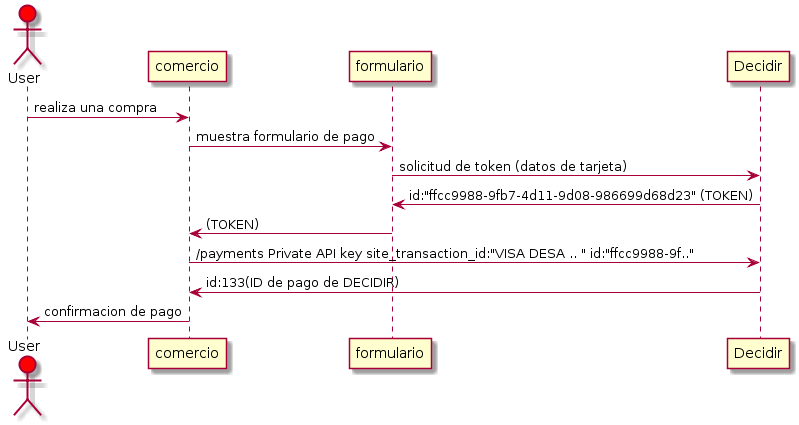
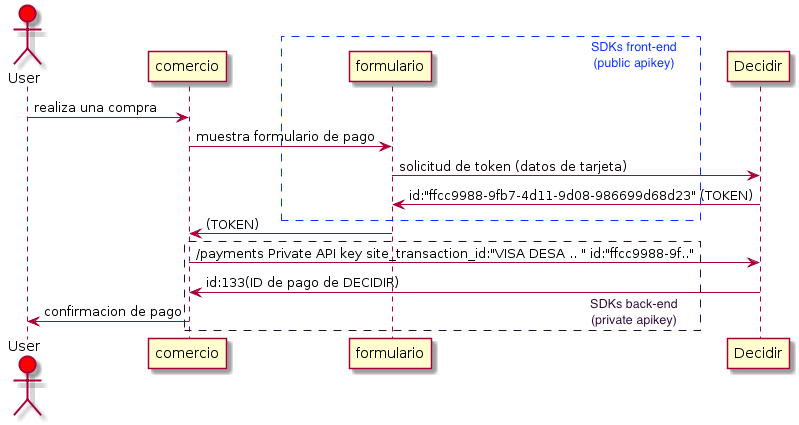
Updated Readme

Changed region(s): [[0.7209, 0.0918, 0.8411, 0.1835], [0.7209, 0.7035, 0.8711, 0.7647]]

diff --git a/README.md b/README.md
@@ -7,8 +7,9 @@ Modulo para conexión con gateway de pago DECIDIR2
   + [Instalación](#instalacion)
     + [Versiones de Java soportadas](#versionesdejavasoportadas)
   + [Manual de Integración](#manualintegracion)
+  + [Alcance](#scope)
   + [Diagrama de secuencia](#secuencia)
-  + [Ambientes](#test)
+  + [Ambientes](#environments)
   + [Uso](#uso)
     + [Inicializar la clase correspondiente al conector](#initconector)
     + [Operatoria del Gateway](#operatoria)
@@ -47,7 +48,7 @@ import com.decidir.sdk.exceptions.*;
 
 <a name="versionesdejavasoportadas"></a>
 ### Versiones de Java soportadas
-La versi&oacute;n implementada de la SDK, esta testeada para versiones desde Java 1.7
+La versi&oacute;n implementada de la SDK, est&aacute; testeada para versiones desde Java 1.7
 
 [<sub>Volver a inicio</sub>](#inicio)
 
@@ -59,7 +60,7 @@ Se encuentra disponible en Gitbook el **[Manual de Integración Decidir2] (https
 
 [<sub>Volver a inicio</sub>](#inicio)
 
-<a name="secuencia"></a>
+<a name="scope"></a>
 
 ## Alcance
 **SDK-JAVA** provee soporte para su **aplicaci&oacute;n backend**, encargandose de la comunicaci&oacute;n del comercio con la **API Decidir** utilizando su **API Key privada**<sup>1</sup> y el **token de pago** generado por el cliente.
@@ -70,21 +71,28 @@ Para generar el token de pago, la aplicaci&oacute;n cliente realizar&aacute; con
 + [SDK-JavaScript](https://github.com/decidir/SDK-JavaScript.v2)
 
 
-![imagen de configuracion](./docs/img/DiagramaSDKs.png)</br>
+![imagen de sdks](./docs/img/DiagramaSDKs.png)</br>
 
 ---
 <sup>_1 - Las API Keys serán provistas por el equipo de Soporte de DECIDIR (soporte@decidir.com.ar). _</sup>
+
 [<sub>Volver a inicio</sub>](#inicio)
 
 <a name="secuencia"></a>
 
 ## Diagrama de secuencia
+El flujo de una transacción a través de las SDKs consta de dos pasos, a saber:
 
+1. Se realiza una solicitud de token de pago con la Llave de Acceso pública (public API Key), enviando los datos sensibles de la tarjeta (PAN, mes y año de expiración, código de seguridad, titular, y tipo y número de documento) y obteniéndose como resultado un token que permitirá realizar la transacción posterior.
+
+1. Se ejecuta el pago con la Llave de Acceso privada (private API Key), enviando el token generado en el Paso 1 más el identificador de la transacción a nivel comercio, el monto total, la moneda y la cantidad de cuotas.
+
+A continuación, se presenta un diagrama con el Flujo de un Pago.
 ![imagen de configuracion](./docs/img/FlujoPago.png)</br>
 
 [<sub>Volver a inicio</sub>](#inicio)
 
-<a name="test"></a>
+<a name="environments"></a>
 
 ## Ambientes
 
